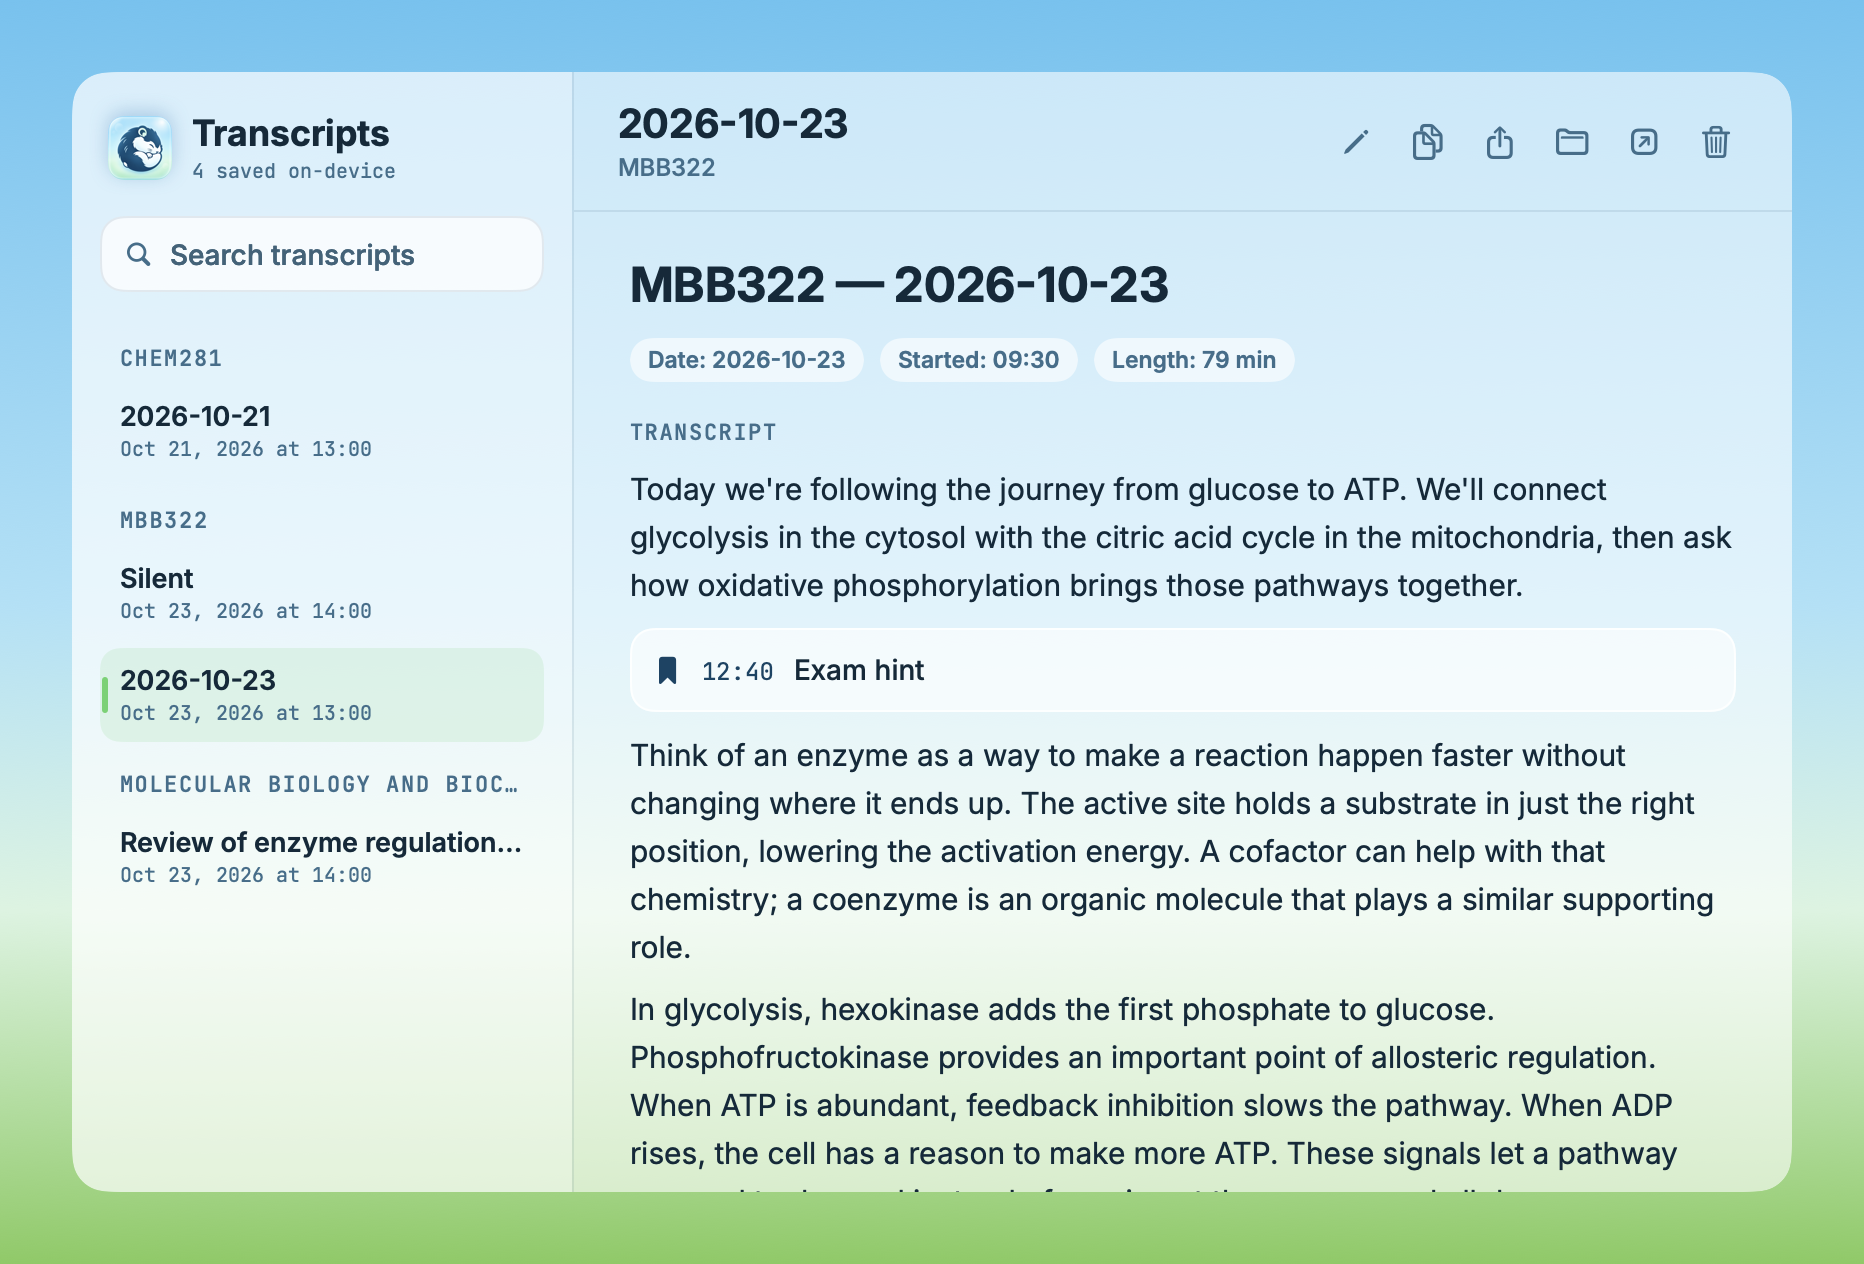
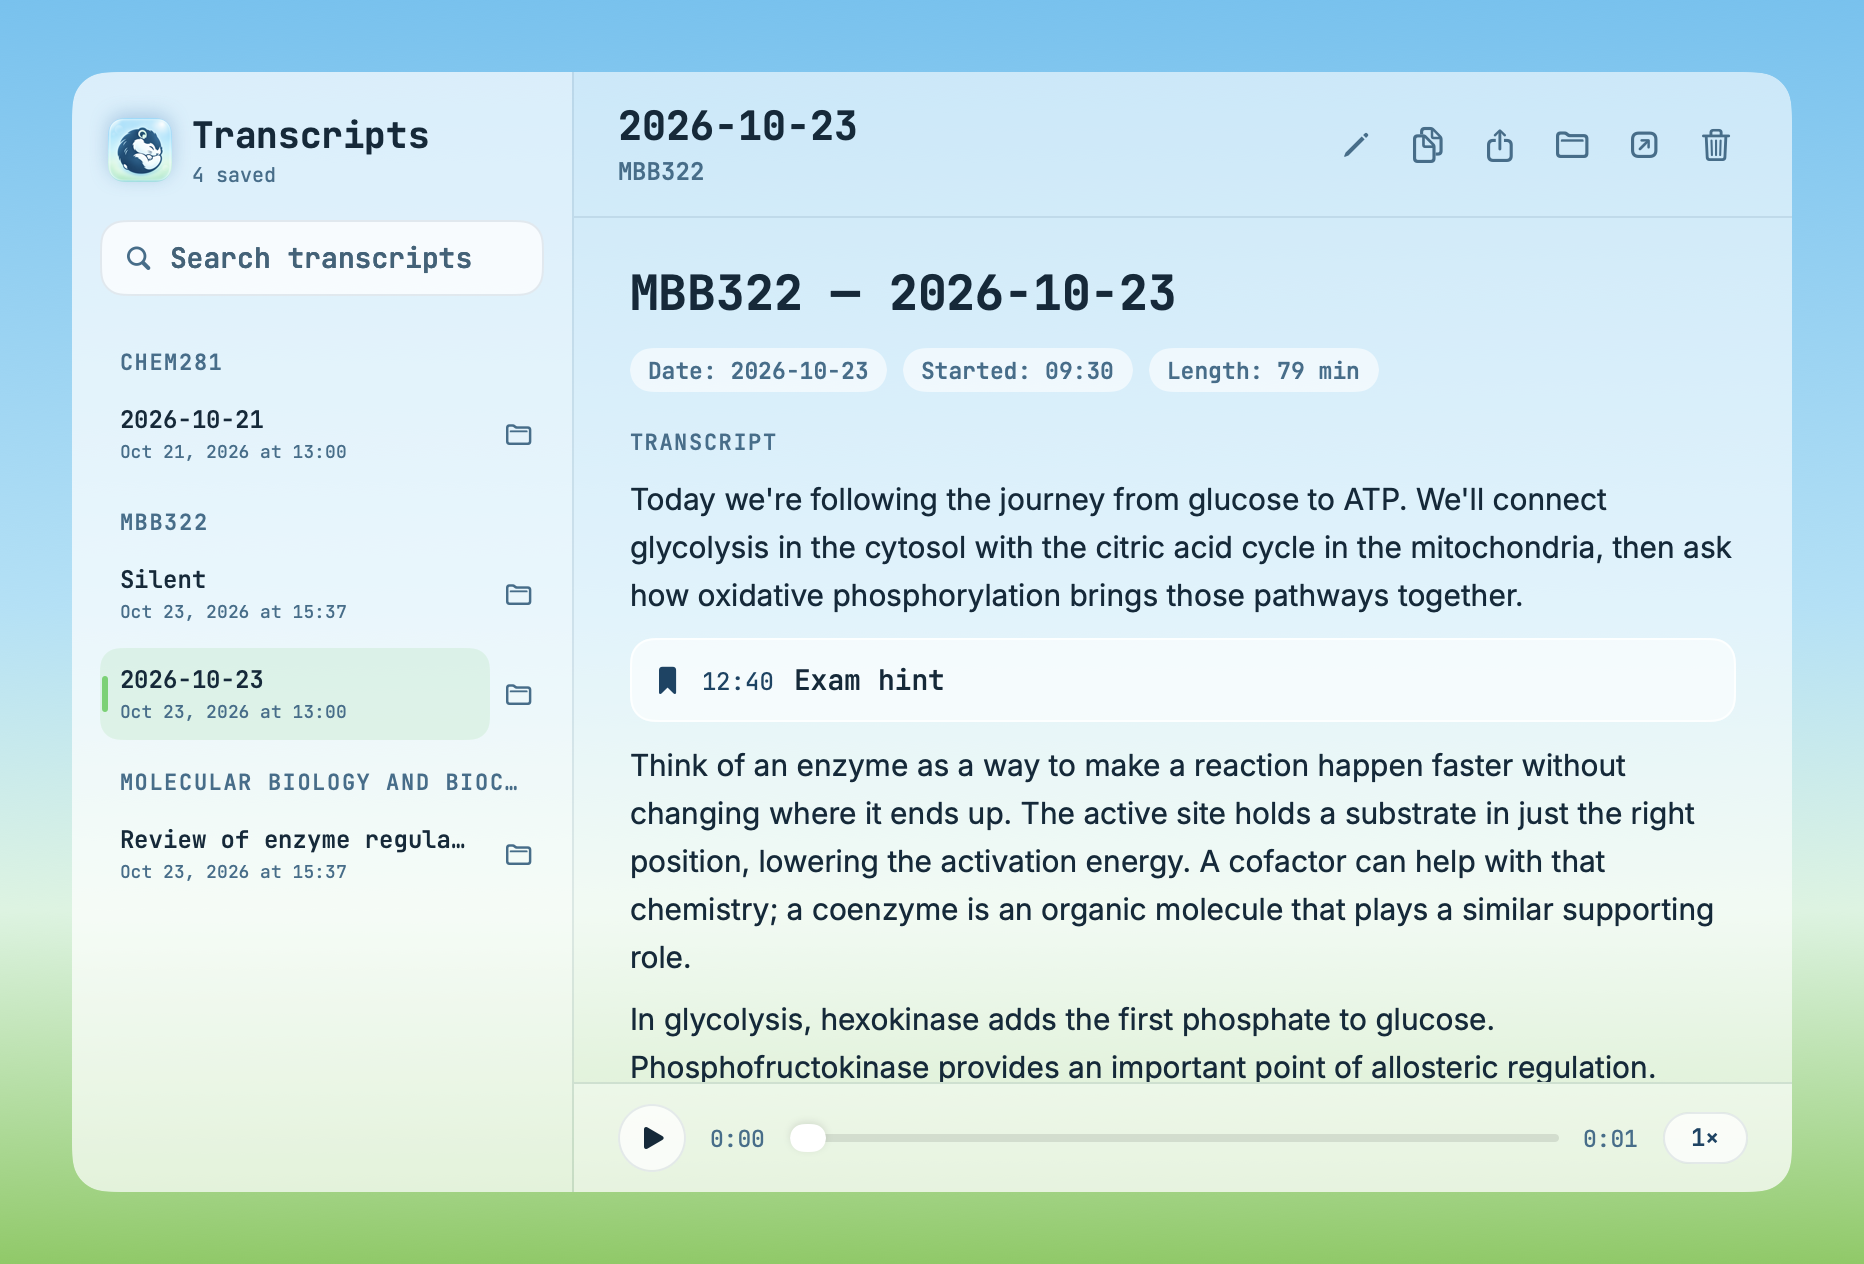
test: refresh Nosy light and dark previews
Render the main states, secondary windows, setup flow, and recent views
in both appearances for visual review.

diff --git a/Sources/Snapshot.swift b/Sources/Snapshot.swift
@@ -78,6 +78,19 @@ enum Snapshot {
             try manager.createDirectory(at: support, withIntermediateDirectories: true)
             try Data(text.utf8).write(to: transcript)
             try Data(vocabulary.utf8).write(to: course.appendingPathComponent("vocab.txt"))
+            let paths = AppPaths()
+            try paths.prepareSupport()
+            let previewRecord = SessionRecord(id: "preview-audio", lecture: "MBB322", session: "2026-10-23",
+                startedAt: date, endedAt: date.addingTimeInterval(79 * 60), status: .done,
+                transcriptPath: transcript.path, markers: [SessionMarker(t: 760, label: "Exam hint")],
+                vocabularyTerms: Vocabulary.entries(vocabulary))
+            try previewRecord.save(in: paths)
+            let audio = paths.audioFile(previewRecord.id, "wav")
+            try Core.wavHeader(pcmBytes: 32_000).write(to: audio)
+            let audioFile = try FileHandle(forWritingTo: audio)
+            try audioFile.seekToEnd()
+            try audioFile.write(contentsOf: Data(repeating: 0, count: 32_000))
+            try audioFile.close()
             let other = transcripts.appendingPathComponent("CHEM281")
             try manager.createDirectory(at: other, withIntermediateDirectories: true)
             let earlier = other.appendingPathComponent("2026-10-21.md")
@@ -170,6 +183,20 @@ enum Snapshot {
             try? Data(text.utf8).write(to: longURL)
             let longSaved = model(.done)
             longSaved.current?.transcriptPath = longURL.path
+            let recent = model(.idle)
+            let recentHome = model(.transcribing)
+            let recentListView = PreviewWindow { MainView(model: recent, previewRecent: true) }
+            let recentTranscriptView = PreviewWindow {
+                MainView(model: model(.idle), previewRecent: true, previewRecentSelection: transcript)
+            }
+            let recentAudioView = PreviewWindow {
+                MainView(model: model(.idle), previewRecent: true, previewRecentSelection: transcript, previewRecentAudio: true)
+            }
+            let homeView = PreviewWindow { MainView(model: recentHome, previewTranscribingHome: true) }
+            guard save(recentListView.padding(36).background(PreviewBackdrop()), "recent.\(mode)"),
+                  save(recentTranscriptView.padding(36).background(PreviewBackdrop()), "recent-transcript.\(mode)"),
+                  save(recentAudioView.padding(36).background(PreviewBackdrop()), "recent-audio.\(mode)"),
+                  save(homeView.padding(36).background(PreviewBackdrop()), "transcribing-home.\(mode)") else { return 1 }
             let recovery = model(.idle)
             recovery.transitioning = true
             recovery.recovery = [earlier]
